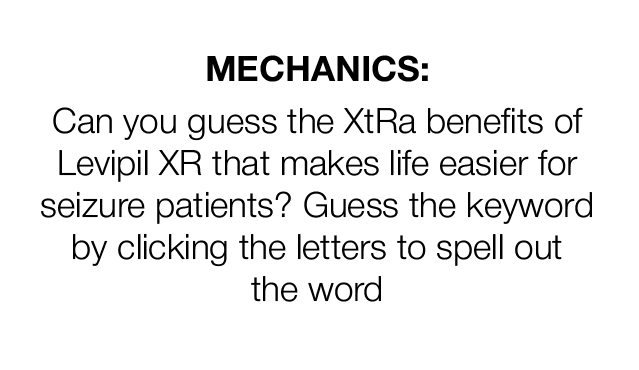
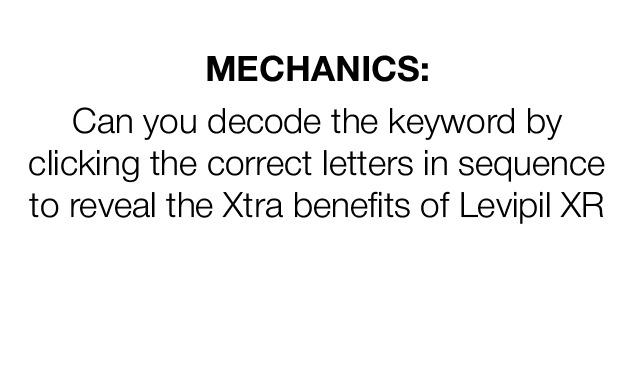
update: added clue and modified mechanics level 1

diff --git a/src/scenes/MainGame.ts b/src/scenes/MainGame.ts
@@ -44,28 +44,29 @@ export default class MainGame extends Phaser.Scene {
 		// background_game
 		this.add.image(512, 384, "background_game");
 
-		switch (this.wordToGuess) {
-			case "CONVENIENCE":
-				this.add.image(150, 87, "level1Btn");
-				break;
-			case "COMPLIANCE":
-				this.add.image(150, 87, "level2Btn");
-				break;
-			case "COST-EFFECTIVE":
-				this.add.image(150, 87, "level3Btn");
-				break;
-			default:
-				this.add.image(150, 87, "level1Btn");
-				break;
-		}
-
 		// containerInput
-		const containerInput = this.add.image(512, 258, "container_game_input");
+		const containerInput = this.add.image(512, 300, "container_game_input");
 		containerInput.alpha = 0.7;
 		containerInput.alphaTopLeft = 0.7;
 		containerInput.alphaTopRight = 0.7;
 		containerInput.alphaBottomLeft = 0.7;
 		containerInput.alphaBottomRight = 0.7;
+
+		switch (this.wordToGuess) {
+			case "CONVENIENCE":
+				this.add.image(150, 50, "level1Btn").setScale(0.7);
+				this.add.image(512, 120, "clueLevel1");
+				break;
+			case "COMPLIANCE":
+				this.add.image(150, 50, "level2Btn").setScale(0.7);
+				break;
+			case "COST-EFFECTIVE":
+				this.add.image(150, 50, "level3Btn").setScale(0.7);
+				break;
+			default:
+				this.add.image(150, 50, "level1Btn").setScale(0.7);
+				break;
+		}
 
 		// textContainer
 		const textContainer = this.add.layer();
@@ -299,12 +300,12 @@ export default class MainGame extends Phaser.Scene {
 		letters.add(letter_13);
 
 		// container_timer
-		const container_timer = this.add.image(915, 87, "container_timer");
+		const container_timer = this.add.image(915, 55, "container_timer");
 		container_timer.scaleX = 0.7;
 		container_timer.scaleY = 0.7;
 
 		// timer
-		const timer = new TimerPrefab(this, 918, 82);
+		const timer = new TimerPrefab(this, 918, 48);
 		this.add.existing(timer);
 		timer.text = "19";
 		timer.setStyle({ align: "center" });
@@ -423,7 +424,7 @@ export default class MainGame extends Phaser.Scene {
 
 	moveLettersCenter() {
 		const centerX = this.scale.width / 2;
-		const centerY = this.scale.height / 3.8;
+		const centerY = this.scale.height / 3;
 		const spacing = 60;
 		const totalWidth = spacing * (this.centerLetters.length - 1);
 		const startX = centerX - totalWidth / 2;
